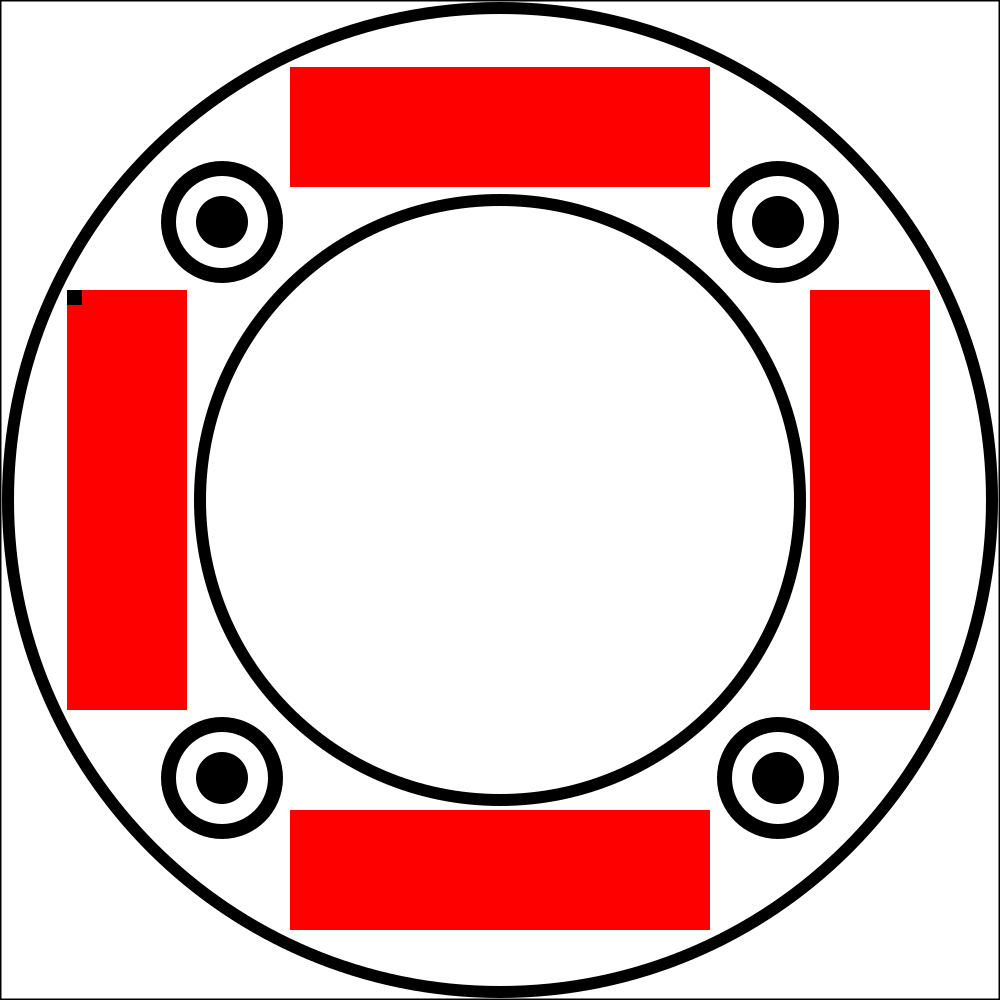
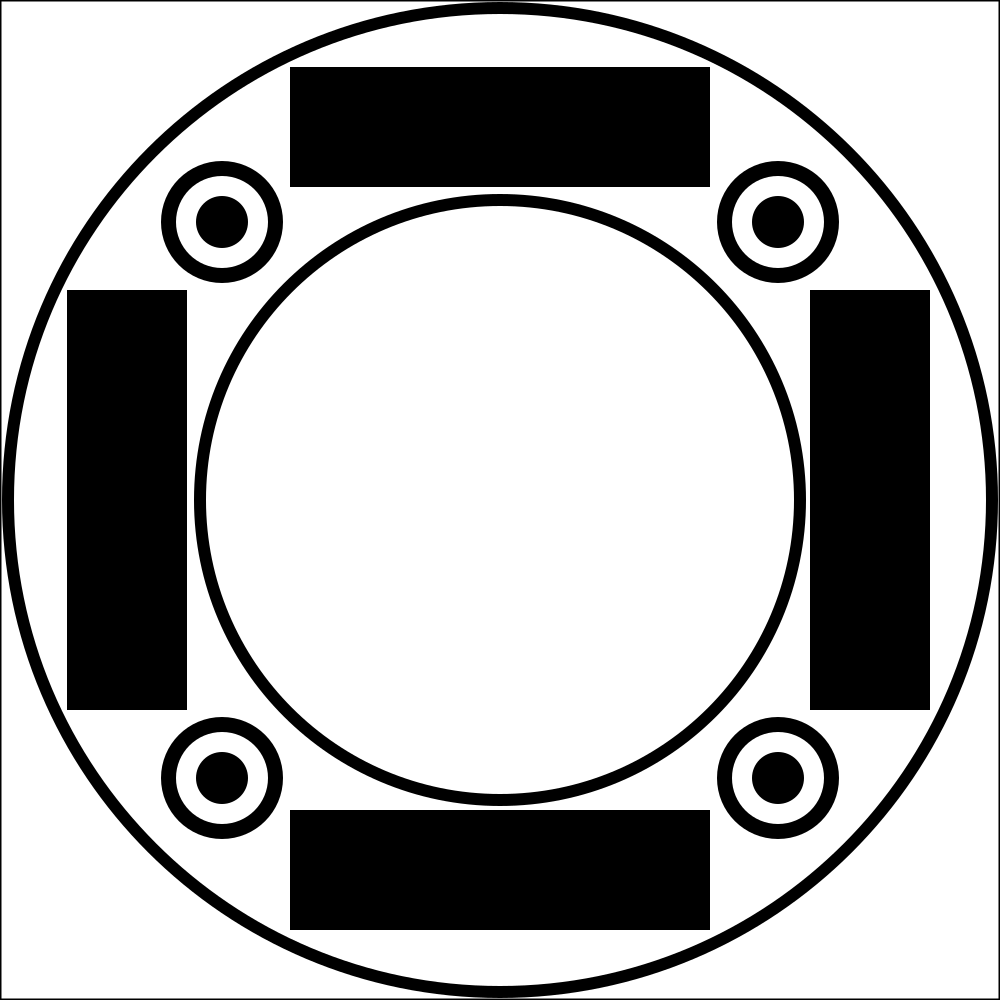
Farto desta merda

diff --git a/encodeUtil.py b/encodeUtil.py
@@ -1,11 +1,48 @@
 from PIL import Image, ImageDraw
 
-def encodeSector(imgDraw, xpos, ypos, width, height, pixelSize):
+def encodeData(imgDraw, data, xpos, ypos, width, height, pixelSize):
+    index = 0
     for x in range(xpos, xpos + width, pixelSize):
         for y in range(ypos, ypos + height, pixelSize):
-            top_left = (xpos, ypos)
-            bottom_right = (xpos + pixelSize, ypos + pixelSize)
+            top_left = (x, y)
+            bottom_right = (x + pixelSize, y + pixelSize)
             
-            imgDraw.rectangle((top_left, bottom_right), fill="black")
+            color = "black"
+            
+            if index < len(data):
+                val = data[index]
+                if val:
+                    color = "white"
+            index+=1
+                            
+            imgDraw.rectangle((top_left, bottom_right), fill=color)
     print("finished")
+    
+def readPos(img, xpos, ypos, pixelSize, thres):
+    accum = 0
+    iter = 0
+    for x in range(xpos, xpos + pixelSize):
+        for y in range(ypos, ypos + pixelSize):
+            accum += img[x][y]
+            iter += 1
+    
+    return (accum / iter) > thres
+
+def decodeDataUTF(img, xpos, ypos, width, height, pixelSize):
+    currentByte = []
+    output = ""
+    for x in range(xpos, xpos + width, pixelSize):
+        for y in range(ypos, ypos + height, pixelSize):            
+            boolVal = readPos(img, x, y, pixelSize, 128)
+            if boolVal:
+                currentByte.append(1)
+            else:
+                currentByte.append(0)
+            if len(currentByte) == 8:
+                byteStr = "".join(str(b) for b in currentByte[::])
+                intVal = int(byteStr, 2)
+                c = chr(intVal)
+                output += c
+                currentByte = []
+    return output
     

diff --git a/circleTest.py b/circleTest.py
@@ -6,6 +6,7 @@ from math import ceil, atan2
 import util as u
 import copy
 import cvExt as cvext
+import encodeUtil as en
 
 cap = cv.VideoCapture(0)
 paused = False
@@ -51,7 +52,7 @@ while(True):
 
                 if len(corners) == 4:
                     print("\nEVALUATING NEW THINGS -----")
-                    
+                    paused = True                                                                                   
 
                     corners = sorted(corners, key=lambda c1: u.calcAngle((c1[0], c1[1]), sqrCenter))
                     floatCorners = np.float32(corners)
@@ -60,6 +61,8 @@ while(True):
                     final = u.transformImage(floatCorners, original)
                     final = cv.cvtColor(final, cv.COLOR_BGR2GRAY)
                     final = cv.flip(final, 0)
+                    text = en.decodeDataUTF(final, 67, 290, 120, 420, 15)
+                    print(text)
                     cv.imshow("ya", final)
 
 

diff --git a/encode.py b/encode.py
@@ -1,11 +1,24 @@
 
 from PIL import Image, ImageDraw
+from bitstring import Bits, BitArray, BitStream, pack
 import encodeUtil as en
+import cv2 as cv 
+import util
 
 img = Image.open("test.png", mode="r", formats=None)
 imgDraw = ImageDraw.Draw(img)
 
-en.encodeData(imgDraw, 67, 290, 120, 420, 20)
 
-img.show()
+dataString = "Hello World! Hello World! Hello World!"
+data = BitArray(bytes(dataString, "utf-8"))
 
+en.encodeData(imgDraw, data, 67, 290, 120, 420, 15)
+
+# img.show()
+# img.save("farto.png")
+
+encoded = cv.imread('farto.png', 0)
+# encoded = cv.cvtColor(encoded, cv.COLOR_BGR2GRAY)
+cv.imshow("aoieaoi", encoded)
+text = en.decodeDataUTF(encoded, 67, 290, 120, 420, 15)
+print(text)
